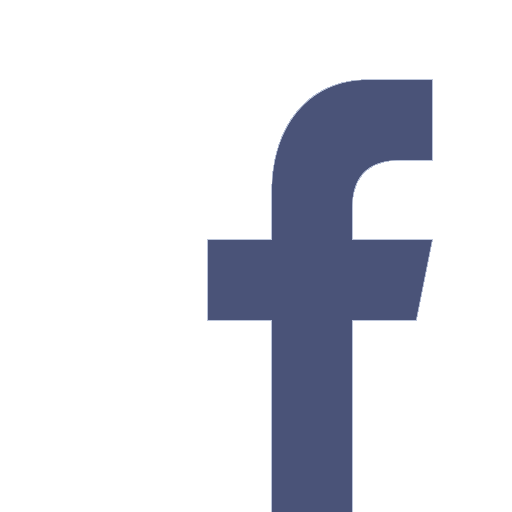
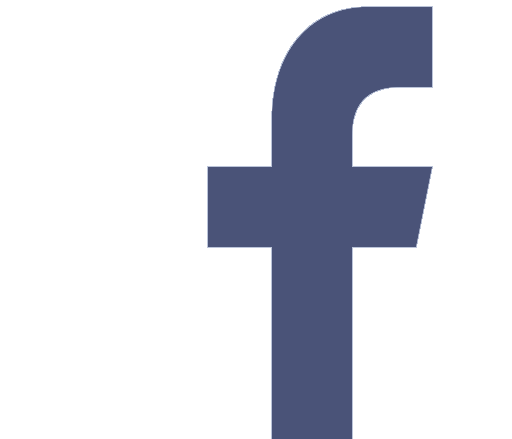
Finish the nav

Changed region(s): [[0.5312, 0.0, 0.8438, 0.6515], [0.4062, 0.3554, 0.5312, 0.4738], [0.4062, 0.5626, 0.5312, 0.6515]]

diff --git a/css/style.css b/css/style.css
@@ -2,23 +2,41 @@ body {
 	margin: 0;
 	font-family: 'Lato', sans-serif;
 }
-nav ul a {
-	text-decoration: none;
+
+#sns {
+	background-image: url(../img/congruent_pentagon.png);
+	padding: 20px;
+	padding-bottom: 80px;
+}
+
+#sns p {
+	font-weight: bold;
+	text-transform: uppercase;
+	background-color: #fefbf0;
+	padding: 10px 25px;
+	width: 100px;
+	border-radius: 13px;
+	text-align: center;
+	margin-top: 0;
+	float: right;
 	color: #333333;
 }
 
-nav ul {
-	list-style: none;
+#sns p:hover {
+	background-color: #333333;
+	color: #fefbf0;
 }
 
-nav li {
-	display: inline;
-	margin-left: 10px;
-	margin-right: 10px;
+#icons {
+	width: 800px;
+	height: 25px;
+	float: left;
 }
 
-nav {
-	background-image: url(../img/congruent_pentagon.png)
+#booknow {
+	width: 300px;
+	float: right;
+	margin-right: 15px;
 }
 
 #sns img:nth-child(1) {
@@ -28,10 +46,46 @@ nav {
 
 #sns img:nth-child(2) {
 	width: 30px;
-	height: 25px;
+	height: 20px;
 }
 
 #sns img:nth-child(3) {
 	width: 30px;
 	height: 25px;
 }
+
+#sns a img {
+	margin-right: 8px;	
+	max-height: 100%;
+}
+
+nav ul a {
+	text-decoration: none;
+	color: #333333;
+}
+
+nav ul a:hover {
+	text-decoration: underline;
+}
+
+nav ul {
+	list-style: none;
+	margin-top: 5px;
+	padding-left: 0;
+}
+
+nav li {
+	display: inline;
+	margin-left: 20px;
+	margin-right: 20px;
+}
+
+#menu {
+	width: 600px;
+	margin: 0 auto;
+	text-align: center;
+	padding-bottom: 20px;
+	position: relative;
+	top: -40px;
+}
+

diff --git a/index.html b/index.html
@@ -13,12 +13,17 @@
 		<nav>
 
 			<div id="sns">
-				<img src="img/facebook.png" alt="facebook-logo">
-				<img src="img/twitter.png" alt="twitter-logo">
-				<img src="img/youtube.png" alt="youtube-logo">
+				<div id="icons">
+					<a href="#"><img src="img/facebook.png" alt="facebook-logo"></a>
+					<a href="#"><img src="img/twitter.png" alt="twitter-logo"></a>
+					<a href="#"><img src="img/youtube.png" alt="youtube-logo"></a>
+				</div>
+				<div id="booknow">
+					<a href="#"><p>Book Now</p></a>
+				</div>
 			</div>
 
-
+			<div id="menu">
 			<img src="img/logo.png" alt="logo">
 			<ul>
 				<li><a href="#">Home</a></li>
@@ -26,6 +31,7 @@
 				<li><a href="#">Tour Price</a></li>
 				<li><a href="#">Gallery</a></li>
 			</ul>
+			</div>
 		</nav>
 
 
